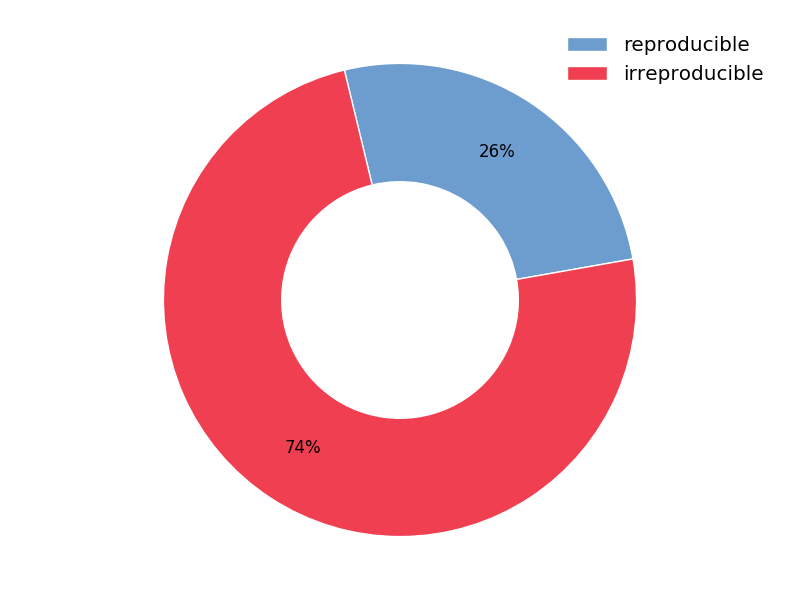
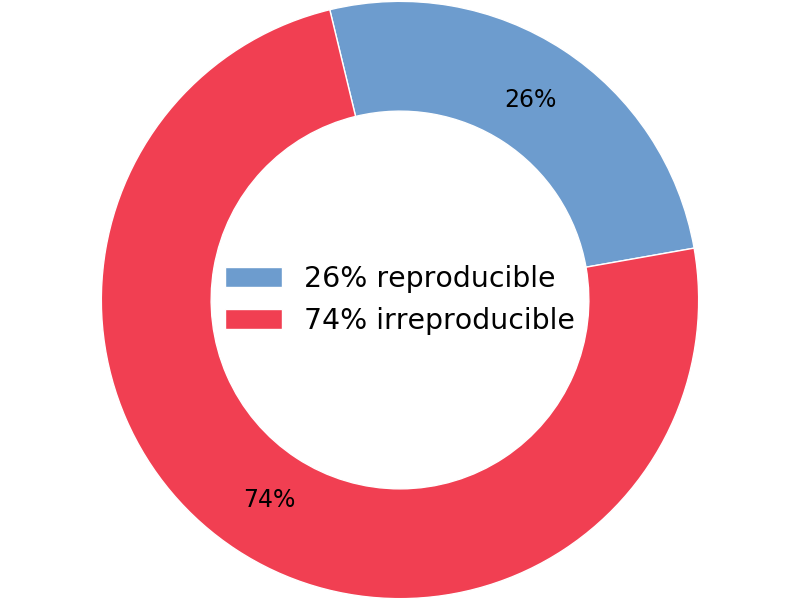
larger reproducibility ratio chart, replace table

diff --git a/index.html b/index.html
@@ -671,15 +671,7 @@ grid size: 0.1 m &rarr; 0.3 m &rarr; 0.9 m &rarr; 1.5 m
     Stodden et al. (PNAS, March 13, 2018)<br>
     204 computational articles from Science in 2011–2012
     </p>
-    <img class="stretch" src="img/reproducibility_ratio_from_stodden.png">
-    <table>
-        <tr>
-            <td style="text-align:right">computationally reproducible
-            <td>26%
-        <tr>
-            <td style="text-align:right">computationally irreproducible
-            <td>74%
-    </table>
+    <img class="stretch" style="margin: 0px"; src="img/reproducibility_ratio_from_stodden.png">
     <small class="credit">
     Stodden, V., Seiler, J., &amp; Ma, Z. (2018).
     An empirical analysis of journal policy effectiveness for computational reproducibility.

diff --git a/chart_ratio.py b/chart_ratio.py
@@ -1,11 +1,14 @@
 #!/usr/bin/python
 
 import matplotlib.pyplot as plt
+import matplotlib as mpl
 
 
 def format_label(value):
     return '{:0.0f}%'.format(value)
 
+
+mpl.rcParams['font.size'] = 17.0
 
 fig, ax = plt.subplots()
 ax.axis('equal')
@@ -14,19 +17,25 @@ values = [26, 74]
 text_labels = ['reproducible', 'irreproducible']
 colors = ['#6D9CCE', '#F13F52']
 
+text_labels = [
+    '{value}% {text}'.format(text=text, value=value)
+    for text, value in zip(text_labels, values)
+    ]
+
+radius = 1.36
 width = 0.5
-label_position = 1 - width / 2
+label_position = 0.8
 start_angle = 10
 
 circle, _, _ = ax.pie(
     values, colors=colors,
-    radius=1, startangle=start_angle,
+    radius=radius, startangle=start_angle,
     autopct=format_label, pctdistance=label_position
     )
 
 plt.setp(circle, width=width, edgecolor='white')
 
-ax.legend(circle, text_labels, frameon=False)
+ax.legend(circle, text_labels, frameon=False, loc='center')
 
 plt.tight_layout()
 
